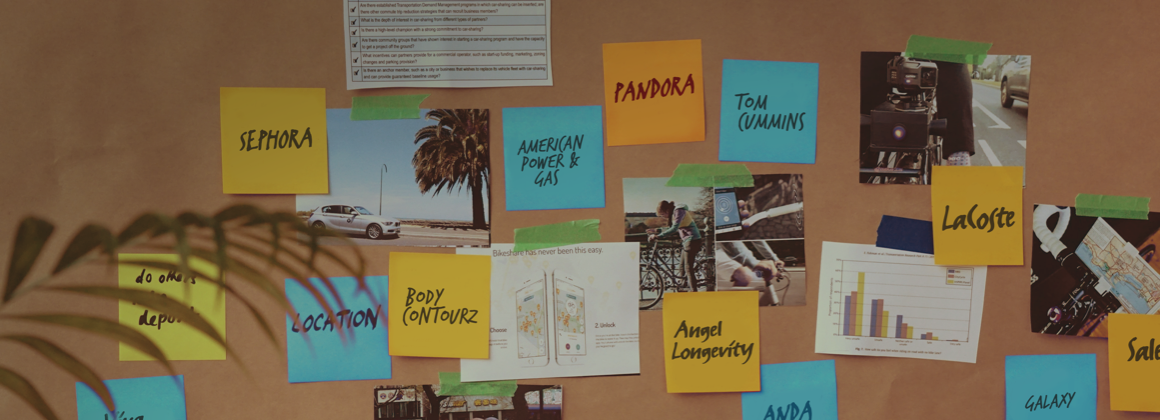
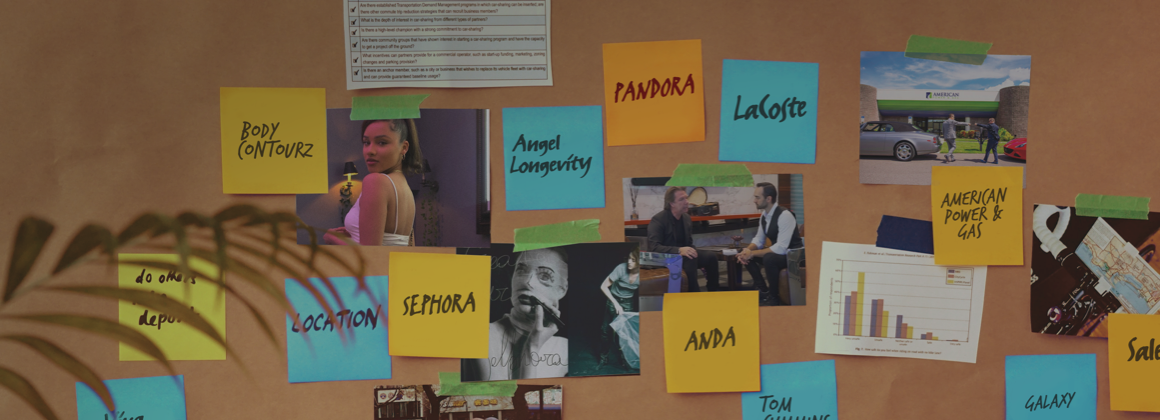
commit-latest

Changed region(s): [[0.1862, 0.1238, 0.9, 0.9286], [0.8069, 0.4333, 0.9, 0.5571], [0.6517, 0.9286, 0.7138, 1.0]]

diff --git a/index.html b/index.html
@@ -212,7 +212,7 @@
          
         <div class=" bg-white-col">
             <div class="row">
-                <div class="col-lg-6 col-md-6 col-sm-12 col-xl-6 p-t-60 margin-al img-bg4">
+                <div class="col-lg-6 col-md-6 col-sm-12 col-xl-6 p-t-60 margin-al img-bg5">
                   <div class="spotlight-client text-center">
                      <p class="home-p cseboit text-white">Body Contourz
 
@@ -230,7 +230,7 @@
                      </div>
                   </div>
                 </div>
-                <div class="col-lg-6 col-md-6 col-sm-12 col-xl-6 p-t-60 img-bg">
+                <div class="col-lg-6 col-md-6 col-sm-12 col-xl-6 p-t-60 img-bg-6">
                   <div class="img-rightt"> 
                      <!-- <img src="img/home-apg-image.png" class="img-fluid"> -->
                      <div class="spotlight-client text-center">
@@ -259,7 +259,7 @@
          
         <div class=" bg-white-col">
             <div class="row">
-               <div class="col-lg-6 col-md-6 col-sm-12 col-xl-6 p-t-60 img-bg1">
+               <div class="col-lg-6 col-md-6 col-sm-12 col-xl-6 p-t-60 img-bg-7">
                   <div class="img-rightt"> 
                      <!-- <img src="img/home-apg-image.png" class="img-fluid"> -->
                        <div class="spotlight-client text-center">
@@ -283,7 +283,7 @@
                   </div>
                     
                 </div>
-                <div class="col-lg-6 col-md-6 col-sm-12 col-xl-6 p-t-60 margin-al  img-bg3">
+                <div class="col-lg-6 col-md-6 col-sm-12 col-xl-6 p-t-60 margin-al  img-bg-8">
                   <div class="spotlight-client text-center">
                      <!-- <p class="home-p cseboit">Client spotlight</p> -->
                      <p class="home-p cseboit text-white">Sephora</p>

diff --git a/style.css b/style.css
@@ -961,6 +961,34 @@ p.mregular.about-biz {
     background-position: center;
     background-origin: padding-box;
 }
+.img-bg5
+{
+    background-image: url(img/home-4.png);
+    background-size: cover;
+    background-position: center;
+    background-origin: padding-box;
+}
+.img-bg-6
+{
+    background-image: url(img/home-3.png);
+    background-size: cover;
+    background-position: center;
+    background-origin: padding-box;
+}
+.img-bg-7
+{
+    background-image: url(img/home-2.png);
+    background-size: cover;
+    background-position: center;
+    background-origin: padding-box;
+}
+.img-bg-8
+{
+    background-image: url(img/zoom-background.png);
+    background-size: cover;
+    background-position: center;
+    background-origin: padding-box;
+}
 .p-t-60
 {
     padding-top: 230px;
